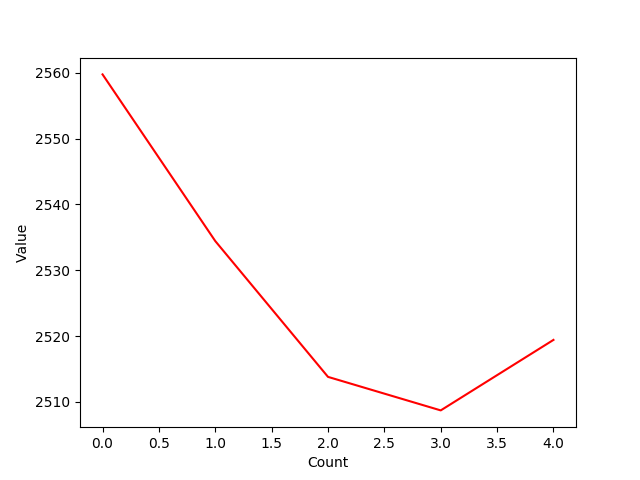
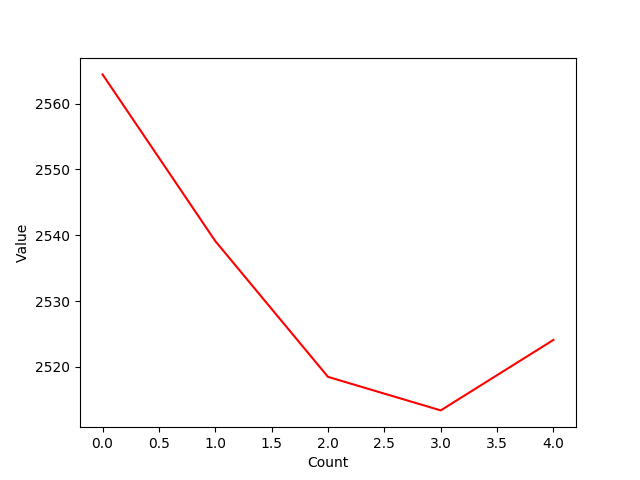
Automated Commision

diff --git a/prediction/sequential.py b/prediction/sequential.py
@@ -1,10 +1,59 @@
 #!/usr/bin/env python3
 
 import os
-from service import graph, select_model, download_stock, fetch_last_time_series, git_update
-from financial import rescale, moving_average, sampling, QUARTER, MONTH, WEEK, STANDARD_SAMPLING_RANGE
+from service import graph, select_model, download_stock
+from service import fetch_last_time_series, git_update
+from financial import rescale, moving_average, sampling
+from financial import QUARTER, MONTH, WEEK, STANDARD_SAMPLING_RANGE
 from financial import TimeSeries
 from model import Model
+
+def vix_momentum_bias(timeseries, date, votality_calculation_range, observation_range):
+    vix, vix_id = download_stock("^vix", date, 1, False)
+    for i in range(len(vix) - 1 - votality_calculation_range, 0, -1):
+        del vix[i]
+    votality_rate = (vix[len(vix) - 1] - vix[0]) / len(vix)
+
+    bias_momentum = 0.00 # smaller the better
+    for i in range(timeseries.raw_size() - 1, timeseries.raw_size() - observation_range, -1):
+        if timeseries.raw_datapoint(timeseries.raw_size() - 1) < timeseries.raw_datapoint(i):
+            bias_momentum += 1
+        else:
+            bias_momentum -= 1
+    
+    bias_momentum *= -votality_rate
+    return bias_momentum
+def regression_momentum_bias(timeseries):
+    """ my own implementation of linear regression on a stock matrix """
+    """ this is crappy. don't take this seriously """
+    # set initial slope and bias based on the end points of the matrix
+    timeseries.raw_datapoint(timeseries.raw_size() - 1)
+    end_point_slope = (timeseries.raw_datapoint(timeseries.raw_size() - 1) - timeseries.raw_datapoint(0)) / timeseries.raw_size()
+
+    high, high_index = -1, 0
+    low, low_index = 10000000, 0
+    for i in range(timeseries.raw_size()):
+        if timeseries.raw_datapoint(i) > high:
+            high = timeseries.raw_datapoint(i)
+            high_index = i
+        else:
+            low = timeseries.raw_datapoint(i)
+            low_index = i
+
+    high_low_slope = 0.00
+    high_low_slope = (timeseries.raw_datapoint(high_index) - timeseries.raw_datapoint(low_index)) / (high_index - low_index)
+    
+    regression_slope = (high_low_slope + end_point_slope) / 2
+
+    bias_momentum = 0.00 # smaller the better
+    for i in range(timeseries.raw_size() - 1, timeseries.raw_size() - observation_range, -1):
+        if timeseries.raw_datapoint(timeseries.raw_size() - 1) < timeseries.raw_datapoint(i):
+            bias_momentum += 1
+        else:
+            bias_momentum -= 1
+    
+    bias_momentum *= -regression_slope
+    return bias_momentum
 
 def sequential_prediction(model=None, stock_id=None, date=None, graphing=True, log=True):
     if model == None:
@@ -21,18 +70,13 @@ def sequential_prediction(model=None, stock_id=None, date=None, graphing=True, l
     timeseries, final_close = fetch_last_time_series(stock, QUARTER)
     prediction_matrix = []
 
+    bias = input("Bias Type [0: Votality, 1: Regression] :: ")
+    bias_momentum = 0.00
     # compute bias using momentum calculations with VIX index
-    vix, vix_id = download_stock("^vix", date, 1, True)
-    for i in range(len(vix) - 1 - WEEK, 0, -1):
-        del vix[i]
-    votality_rate = (vix[len(vix) - 1] - vix[0]) / len(vix)
-
-    bias_momentum = 0.00 # smaller the better
-    for i in range(timeseries.raw_size() - 1, timeseries.raw_size() - MONTH, -1):
-        if timeseries.raw_datapoint(timeseries.raw_size() - 1) < timeseries.raw_datapoint(i):
-            bias_momentum += 1
-    bias_momentum *= -votality_rate
-    print(bias_momentum)
+    if bias == 1:
+        bias_momentum = regression_momentum_bias(timeseries)
+    else:
+        bias_momentum = vix_momentum_bias(timeseries, date, WEEK, MONTH)
 
     for count in range(5):
         trend = moving_average(timeseries, MONTH)

diff --git a/prediction/trend.py b/prediction/trend.py
@@ -1,0 +1,46 @@
+#!/usr/bin/env python3
+
+from service import graph
+from service import download_stock
+from service import partition_time_series
+from financial import moving_average, sampling
+
+def regression(matrix):
+    """ my own implementation of linear regression on a stock matrix """
+    """ this is crappy. don't take this seriously """
+    # set initial slope and bias based on the end points of the matrix
+    end_point_slope = (matrix[len(matrix) - 1] - matrix[0]) / len(matrix)
+    end_point_bias = matrix[0]
+
+    high, high_index = -1, 0
+    low, low_index = 10000000, 0
+    for i in range(len(matrix)):
+        if matrix[i] > high:
+            high = matrix[i]
+            high_index = i
+        else:
+            low = matrix[i]
+            low_index = i
+
+    high_low_slope = 0.00
+    high_low_slope = (matrix[high_index] - matrix[low_index]) / (high_index - low_index)
+    
+    regression_slope = (high_low_slope + end_point_slope) / 2
+    return regression_slope, end_point_bias
+
+if __name__ == "__main__":
+    stock, id = download_stock()
+    dataset = partition_time_series(stock, 150)
+    trend = []
+
+    for timeseries in dataset:
+        line = moving_average(timeseries, 5)
+        trend.append(sampling(line, 0, 2, 3))
+
+    slope, bias = regression(trend[0])
+    line = [i * slope + bias for i in range(len(trend[0]))]
+
+    print(slope)
+
+    graph(trend[15], "green", "trend.png", False)
+    graph(line, "red", "trend.png", False)
